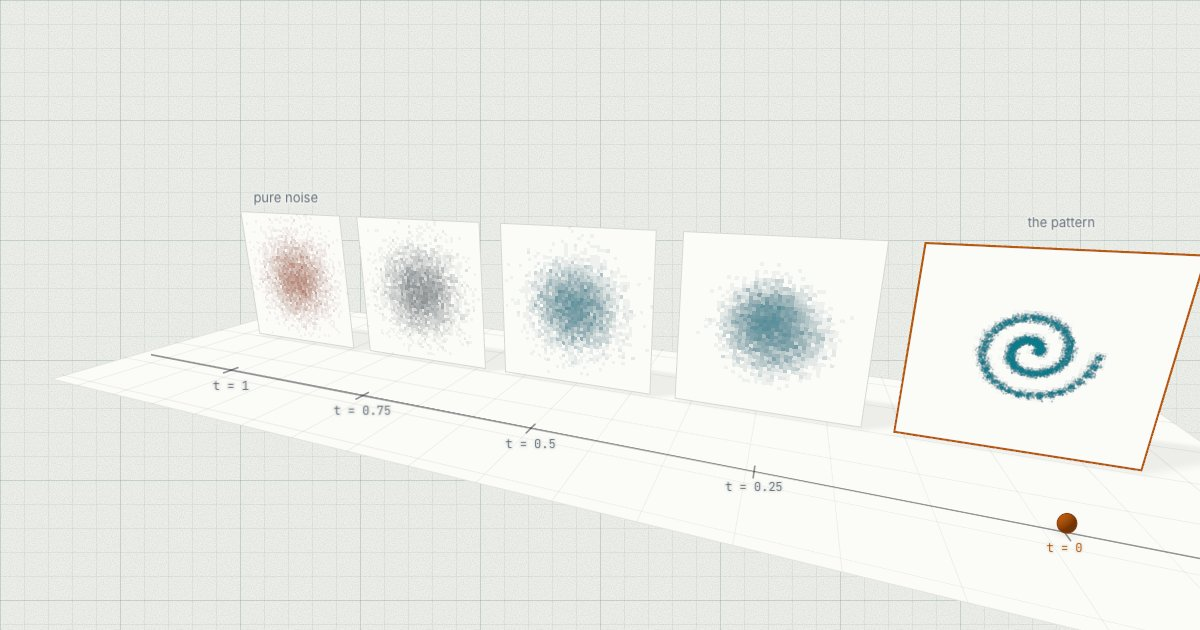
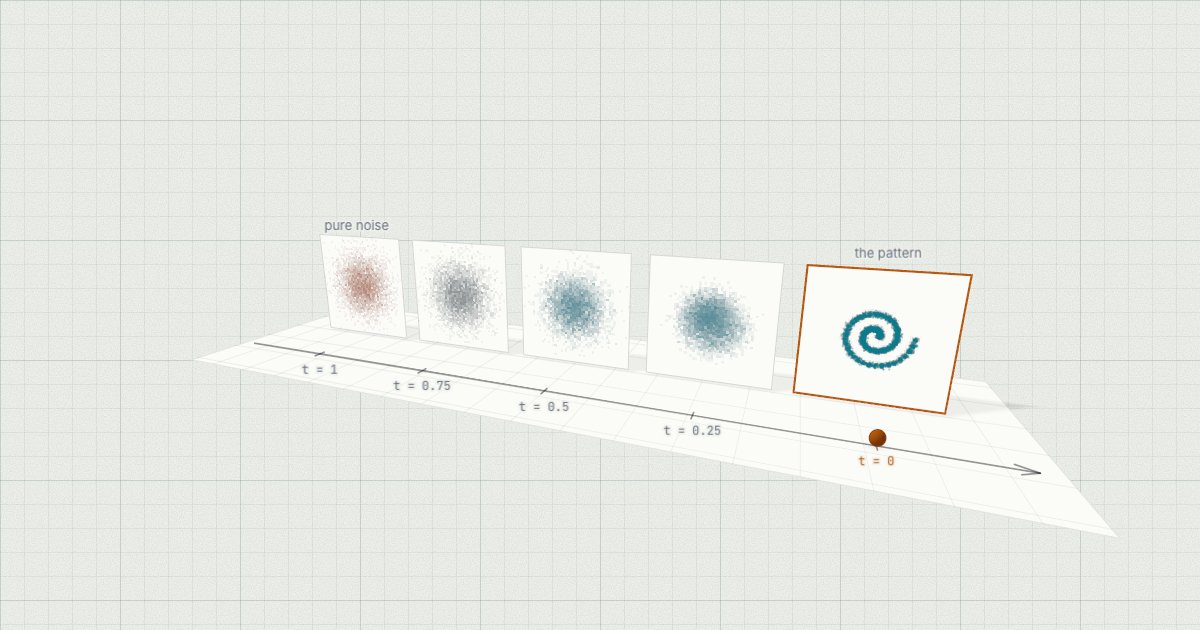
Keep lesson navigation and diffusion panels fully visible
Keep header controls at their full size and compact search and breadcrumbs
at narrower desktop widths. Fit the diffusion overview to its projected
corners so perspective cannot push the nearest panel behind narration.
Refresh the diffusion preview to match the new framing.

diff --git a/src/lib/lessons/vision/diffusion/scene.ts b/src/lib/lessons/vision/diffusion/scene.ts
@@ -325,23 +325,29 @@ export const createDiffusionScene: SceneFactory = () => {
 		}
 	}
 
-	/** The whole row (first to last sheet) spans about 88% of the uncovered width: the distance is solved by projecting the row's ends. */
+	/** Keep every sheet corner inside the uncovered area, including the nearer, larger end of the perspective view. */
 	function overviewPose(aspect: number): Pose {
 		const half = sheetX(LEVELS - 1) + SHEET / 2;
 		const mid = SHEET_Y0 + SHEET / 2;
 		const pose: Pose = { target: [0, mid, 0], azimuth: 0.38, elevation: 0.26, distance: (2 * half) / (0.828 * aspect * 0.88) };
 		const probe = new OrbitRig();
-		const ends: Vec3[] = [[-half, mid, 0], [half, mid, 0]];
-		for (let it = 0; it < 4; it++) {
+		const corners: Vec3[] = [];
+		for (const x of [-half, half]) {
+			for (const y of [SHEET_Y0, SHEET_Y0 + SHEET]) {
+				for (const z of [0, LIVE_Z]) corners.push([x, y, z]);
+			}
+		}
+		for (let it = 0; it < 8; it++) {
 			probe.setPose(pose);
 			const m = probe.matrix(aspect);
-			const nx = ends.map((p) => {
+			const extent = Math.max(...corners.map((p) => {
 				const w = m[3] * p[0] + m[7] * p[1] + m[11] * p[2] + m[15];
-				return (m[0] * p[0] + m[4] * p[1] + m[8] * p[2] + m[12]) / w;
-			});
-			const width = Math.abs(nx[1] - nx[0]);
-			if (width < 1e-6) break;
-			pose.distance *= width / (2 * 0.88);
+				const x = (m[0] * p[0] + m[4] * p[1] + m[8] * p[2] + m[12]) / w;
+				const y = (m[1] * p[0] + m[5] * p[1] + m[9] * p[2] + m[13]) / w;
+				return Math.max(Math.abs(x), Math.abs(y));
+			}));
+			if (extent <= 0.88) break;
+			pose.distance *= extent / 0.88;
 		}
 		return pose;
 	}

diff --git a/src/lib/components/shell/TopBar.svelte b/src/lib/components/shell/TopBar.svelte
@@ -63,7 +63,7 @@
 		<div class="crumb">
 			<span>{current.track.title}</span>
 			<Icon name="chevron-right" size={12} />
-			<b>{current.meta.title}</b>
+			<b title={current.meta.title}>{current.meta.title}</b>
 		</div>
 	{/if}
 
@@ -140,6 +140,14 @@
 		white-space: nowrap;
 		color: var(--ink);
 	}
+	.brand,
+	nav,
+	.chip-btn,
+	.search-pill,
+	.theme-switch,
+	.icon-btn {
+		flex-shrink: 0;
+	}
 	nav {
 		display: flex;
 		gap: 18px;
@@ -182,6 +190,16 @@
 		min-width: 0;
 		white-space: nowrap;
 		color: var(--ink-2);
+		overflow: hidden;
+	}
+	.crumb span,
+	.crumb b {
+		min-width: 0;
+		overflow: hidden;
+		text-overflow: ellipsis;
+	}
+	.crumb :global(svg) {
+		flex-shrink: 0;
 	}
 	.crumb b {
 		font-family: var(--font-display);
@@ -258,5 +276,17 @@
 		border-color: var(--ink);
 		color: var(--ink);
 		box-shadow: 0 0 0 3px color-mix(in srgb, var(--ink) 10%, transparent);
+	}
+	@media (max-width: 1200px) {
+		.crumb span,
+		.crumb :global(svg),
+		.search-pill span,
+		.search-pill kbd {
+			display: none;
+		}
+		.search-pill {
+			min-width: 30px;
+			padding: 0 7px;
+		}
 	}
 </style>
